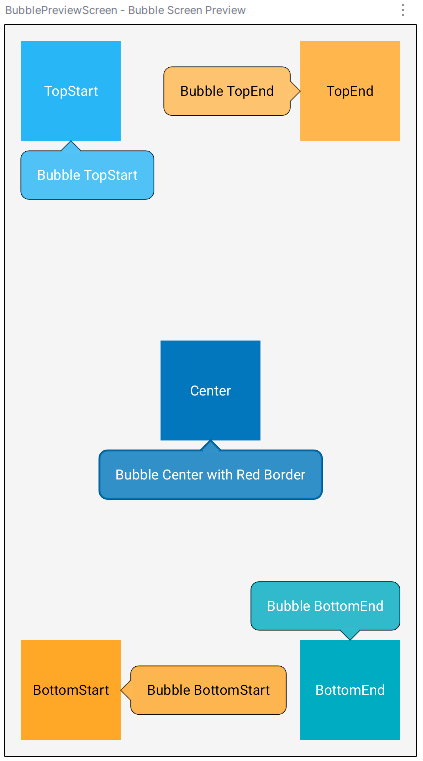
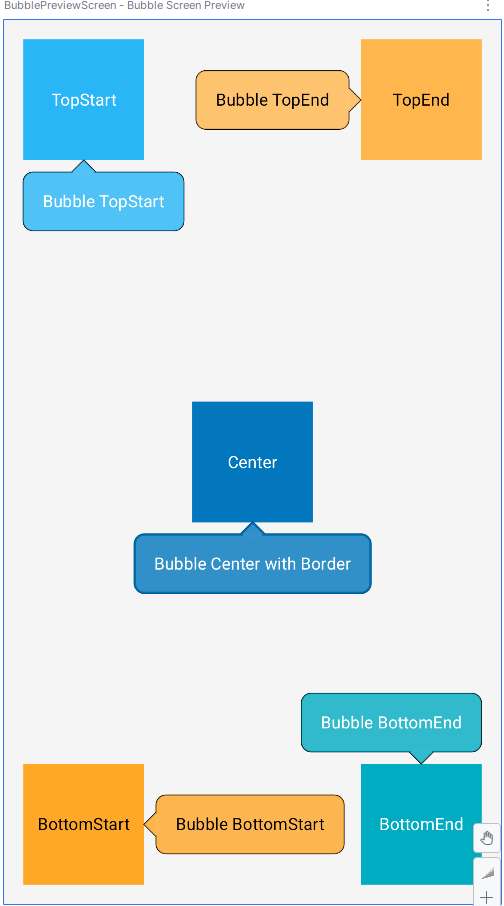
README.md update

diff --git a/lib/src/main/java/ua/at/tsvetkov/bubbles/Bubble.kt b/lib/src/main/java/ua/at/tsvetkov/bubbles/Bubble.kt
@@ -841,7 +841,7 @@ fun BubblePreviewScreen() {
                 arrowPosition = ArrowPosition.BOTTOM,
                 content = { onDismissClick, onStopShowRequest -> // Already correct in preview
                     Text(
-                        "Bubble Center with Red Border", color = Color.White, modifier = Modifier
+                        "Bubble Center with Border", color = Color.White, modifier = Modifier
                             .padding(8.dp)
                             .clickable { onDismissClick() })
                 }

diff --git a/README.md b/README.md
@@ -1,18 +1,18 @@
-# android-tao-bubbles
+# TAO Bubbles
 =====================
 
-A lightweight Jetpack Compose library for displaying customizable "bubbles", "bubbles show" or "tooltips" that can point to specific UI elements. 
+A lightweight Jetpack Compose library for displaying customizable "bubbles", "showcases" or "tooltips" that can point to specific UI elements. 
 This is useful for tutorials, feature highlights, or contextual help.
 
 ## Features
 
-*   **Customizable Appearance**: Control arrow position, size, corner radius, colors, borders, and more.
+*   **Customizable Appearance**: Control arrow position, size, corner radius, colors, borders, and more.  You can easily adapt the style of your tooltips to match your app's design.
 *   **Flexible Positioning**: Bubbles can point to any side of a target composable (`LEFT`, `RIGHT`, `TOP`, `BOTTOM`).
-*   **Screen Boundary Awareness**: Bubbles adjust their position to stay within screen bounds.
-*   **Sequential Display**: Use `BubbleShowController` to easily display a series of bubbles.
-*   **Enter/Exit Animations**: Smooth animations for bubble appearance and disappearance.
-*   **Scrim Background**: Optional scrim to dim the background when a bubble is shown.
-*   **Declarative API**: Built with Jetpack Compose for a modern Android UI.
+*   **Screen Boundary Awareness**: Bubbles automatically adjust their position to stay within screen bounds, ensuring a great user experience on any device.
+*   **Sequential Display**: Use `BubbleShowController` to easily display a series of bubbles one by one, guiding the user through multiple steps.
+*   **Enter/Exit Animations**: Smooth and customizable animations for bubble appearance and disappearance make interactions more dynamic.
+*   **Scrim Background**: An optional scrim layer dims the background, helping to focus the user's attention on the bubble.
+*   **Declarative API**: Built with Jetpack Compose for a modern Android UI, offering a simple and intuitive API.
 
 [Download the latest release and demo](https://github.com/lordtao/android-tao-bubble/releases)
 
